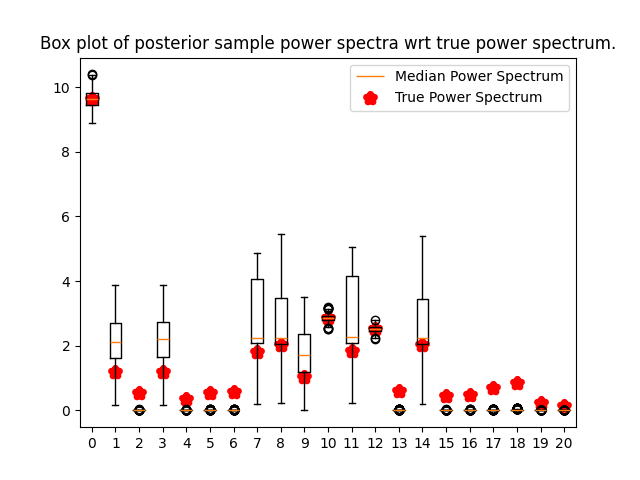
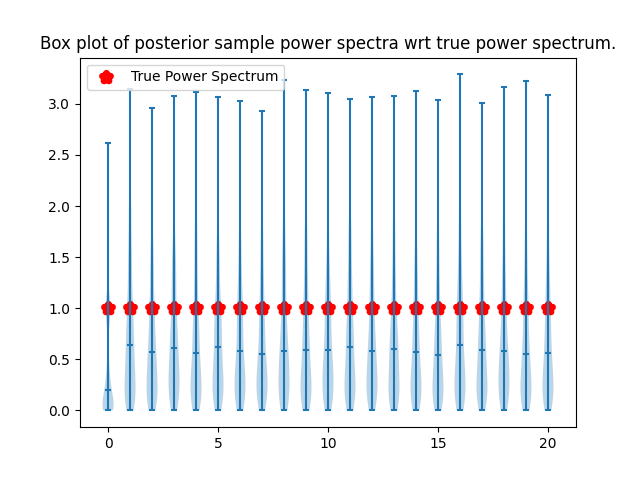
Switched to violinplots.

diff --git a/src/test_scorematching.py b/src/test_scorematching.py
@@ -87,11 +87,11 @@ if __name__ == "__main__":
     sigma = 1.
 
     ### Set parameters for true signal
-    length = 41
+    length = 21
     signal_true = torch.zeros((length,), device=device, requires_grad=False)
-    # signal_true[0] = np.sqrt(41)
+    signal_true[0] += np.sqrt(length)
     # signal_true += 1.
-    signal_true += torch.randn_like(signal_true)
+    # signal_true += 0.001 * torch.randn_like(signal_true)
 
     ### Set parameters for conditioner
     conditioner_type = "power_spectrum" # "power_spectrum", "triple_correlation"
@@ -100,7 +100,7 @@ if __name__ == "__main__":
     use_none_cond = False
 
     ### Set parameters for score model
-    scoremodel_type = "none" # "gaussian", "learned", "none"
+    scoremodel_type = "gaussian" # "gaussian", "learned", "none"
     
     ### Set parameters for gaussian score model
     use_circulate = True # The circulate distribution is piecewise gaussian.
@@ -123,7 +123,7 @@ if __name__ == "__main__":
     plot_input = False
     plot_MRA_samples = False
     plot_projection = False
-    show_plot = False
+    show_plot = True
 
     ### Set parameters for visualization of scores
     ax_bound = 0.8
@@ -505,59 +505,77 @@ if __name__ == "__main__":
         # ax1.bar(torch.arange(length), signal_true, yerr=stds)
         # plt.title("True signal with empirical standard deviation per channel")
         # plt.savefig(f'./../figs/scorematching/{conditioner_type}/bardiagram_{length=}.png')
-
+        
         fig2, ax2 = plt.subplots()
-        ax2.boxplot(
+        vp2 = ax2.violinplot(
             aligned_output, 
             positions=range(length), 
-            label="Median Output Sample",
+            showmeans=True,
+            # showmedians=True,
+            # label="Median Output Sample",
         )
+        vp2['cmeans'].set_color('black') 
+        vp2['cbars'].set_color('green') 
+        vp2['cmins'].set_color('green') 
+        vp2['cmaxes'].set_color('green') 
+        for body in vp2['bodies']:
+            body.set_facecolor('lightgreen')
+            body.set_edgecolor('green')
         ax2.scatter(
             range(length), 
             signal_true, 
             c='r', 
-            marker='*', 
-            linewidth=5., 
+            marker='_', 
+            linewidth=2., 
             label="True Signal",
         )
         ax2.legend()
         ax2.xaxis.set_ticklabels([])
         if use_none_cond:
-            plt.title("Box plot of prior samples aligned with true signal.")
-            plt.savefig(f'./../figs/scorematching/{conditioner_type}/boxplot_samples_{length=}.png')
+            plt.title("Violin plot of prior samples aligned with true signal.")
+            plt.savefig(f'./../figs/scorematching/{conditioner_type}/violinplot_samples_{length=}.png')
         else:
             if use_random_statistics:
-                plt.title("Box plot of posterior samples wrt population power spectrum aligned with true signal.")
-                plt.savefig(f'./../figs/scorematching/{conditioner_type}/boxplot_samples_{length=}_poppwrspec.png')
+                plt.title("Violin plot of posterior samples wrt mean power spectrum.")
+                plt.savefig(f'./../figs/scorematching/{conditioner_type}/violinplot_samples_{length=}_poppwrspec.png')
             else:
-                plt.title("Box plot of posterior samples wrt true power spectrum aligned with true signal.")
-                plt.savefig(f'./../figs/scorematching/{conditioner_type}/boxplot_samples_{length=}_truepwrspec.png')
+                plt.title("Violin plot of posterior samples wrt true power spectrum.")
+                plt.savefig(f'./../figs/scorematching/{conditioner_type}/violinplot_samples_{length=}_truepwrspec.png')
         
         fig3, ax3 = plt.subplots()
-        ax3.boxplot(
+        vp3 = ax3.violinplot(
             output_power_spectra[:, :(length+1)//2], 
             positions=range((length+1)//2), 
-            label="Median Power Spectrum",
+            showmeans=True,
+            # showmedians=True,
+            # label="Median Power Spectrum",
         )
+        vp3['cmeans'].set_color('black') 
+        vp3['cbars'].set_color('green') 
+        vp3['cmins'].set_color('green') 
+        vp3['cmaxes'].set_color('green') 
+        for body in vp3['bodies']:
+            body.set_facecolor('lightgreen')
+            body.set_edgecolor('green')
         ax3.scatter(
             range((length+1)//2), 
             power_spectrum_true[:(length+1)//2], 
             c='r', 
-            marker='*', 
-            linewidth=5., 
+            marker='_', 
+            linewidth=2., 
             label="True Power Spectrum",
         )
         ax3.legend()
         if use_none_cond:
-            plt.title("Box plot of prior sample power spectra.")
-            plt.savefig(f'./../figs/scorematching/{conditioner_type}/boxplot_pwrspec_{length=}.png')
+            plt.title("Violin plot of prior sample power spectra.")
+            plt.savefig(f'./../figs/scorematching/{conditioner_type}/violinplot_pwrspec_{length=}.png')
         else:
             if use_random_statistics:
-                plt.title("Box plot of posterior sample power spectra wrt population power spectrum.")
-                plt.savefig(f'./../figs/scorematching/{conditioner_type}/boxplot_pwrspec_{length=}_poppwrspec.png')
+                plt.title("Violin plot of posterior sample power spectra wrt mean power spectrum.")
+                plt.savefig(f'./../figs/scorematching/{conditioner_type}/violinplot_pwrspec_{length=}_poppwrspec.png')
             else:
-                plt.title("Box plot of posterior sample power spectra wrt true power spectrum.")
-                plt.savefig(f'./../figs/scorematching/{conditioner_type}/boxplot_pwrspec_{length=}_truepwrspec.png')
+                plt.title("Violin plot of posterior sample power spectra wrt true power spectrum.")
+                plt.savefig(f'./../figs/scorematching/{conditioner_type}/violinplot_pwrspec_{length=}_truepwrspec.png')
 
     if show_plot:
         plt.show()
